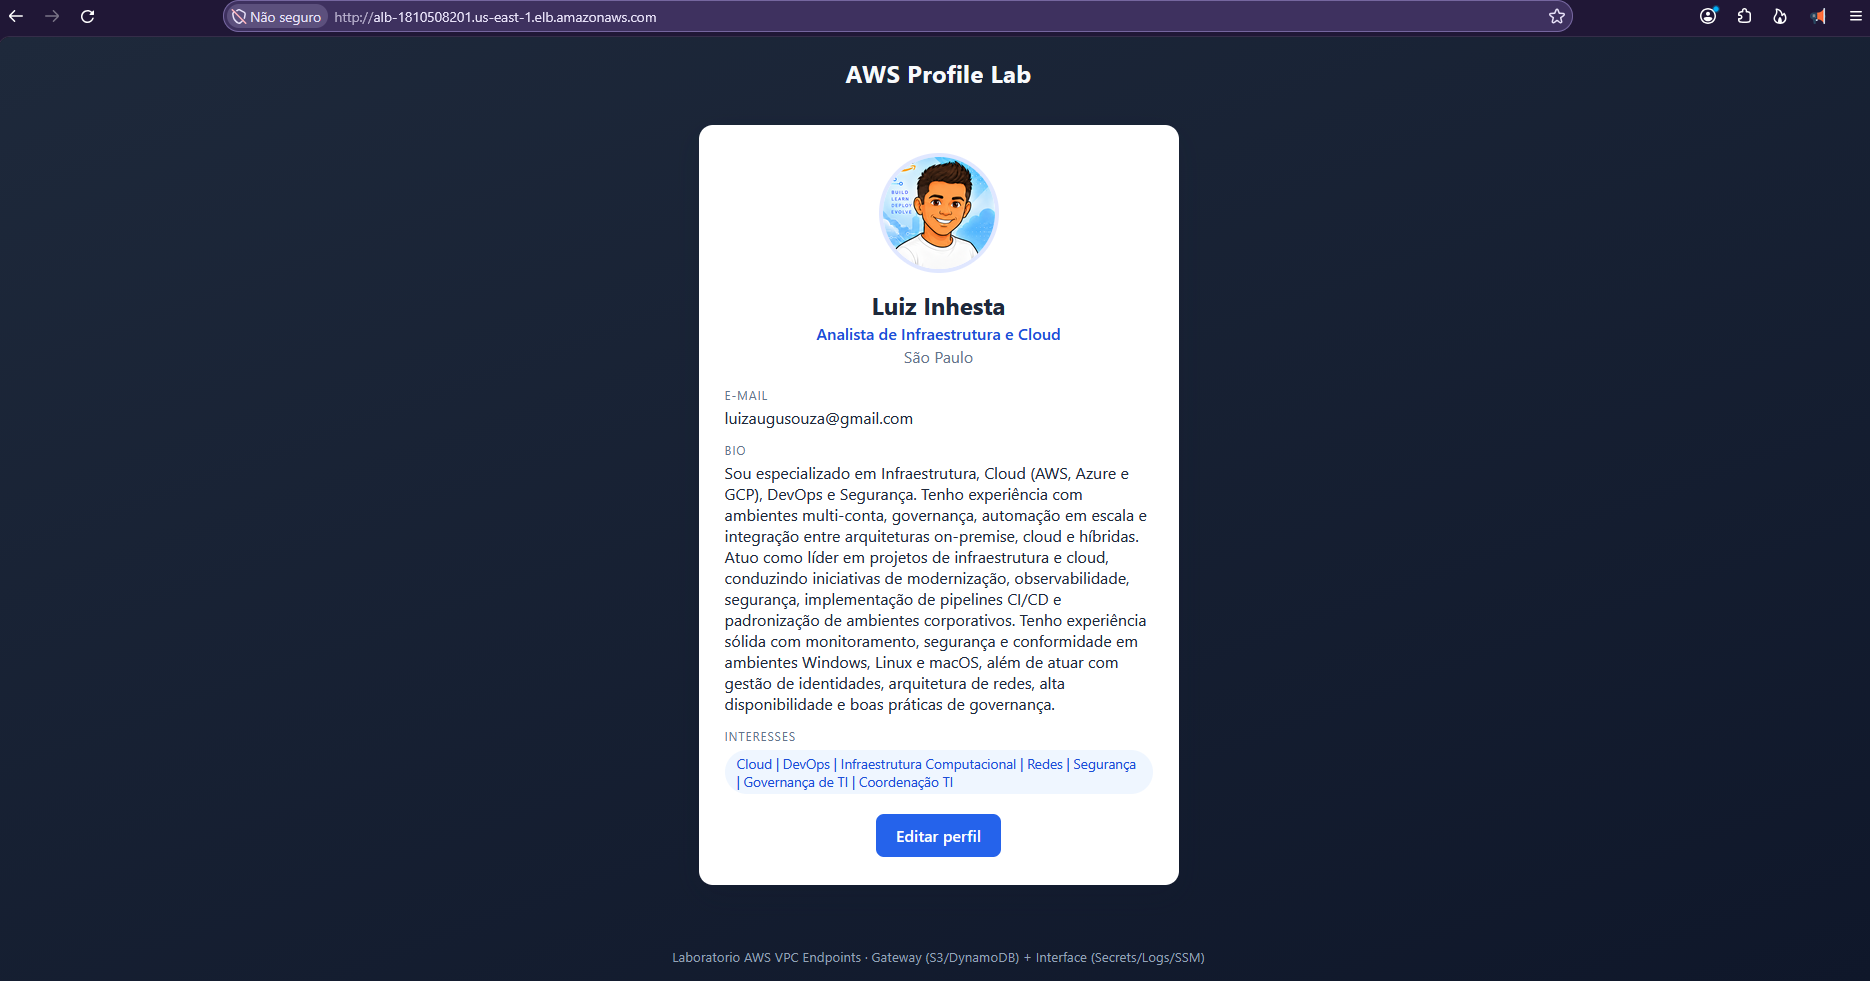
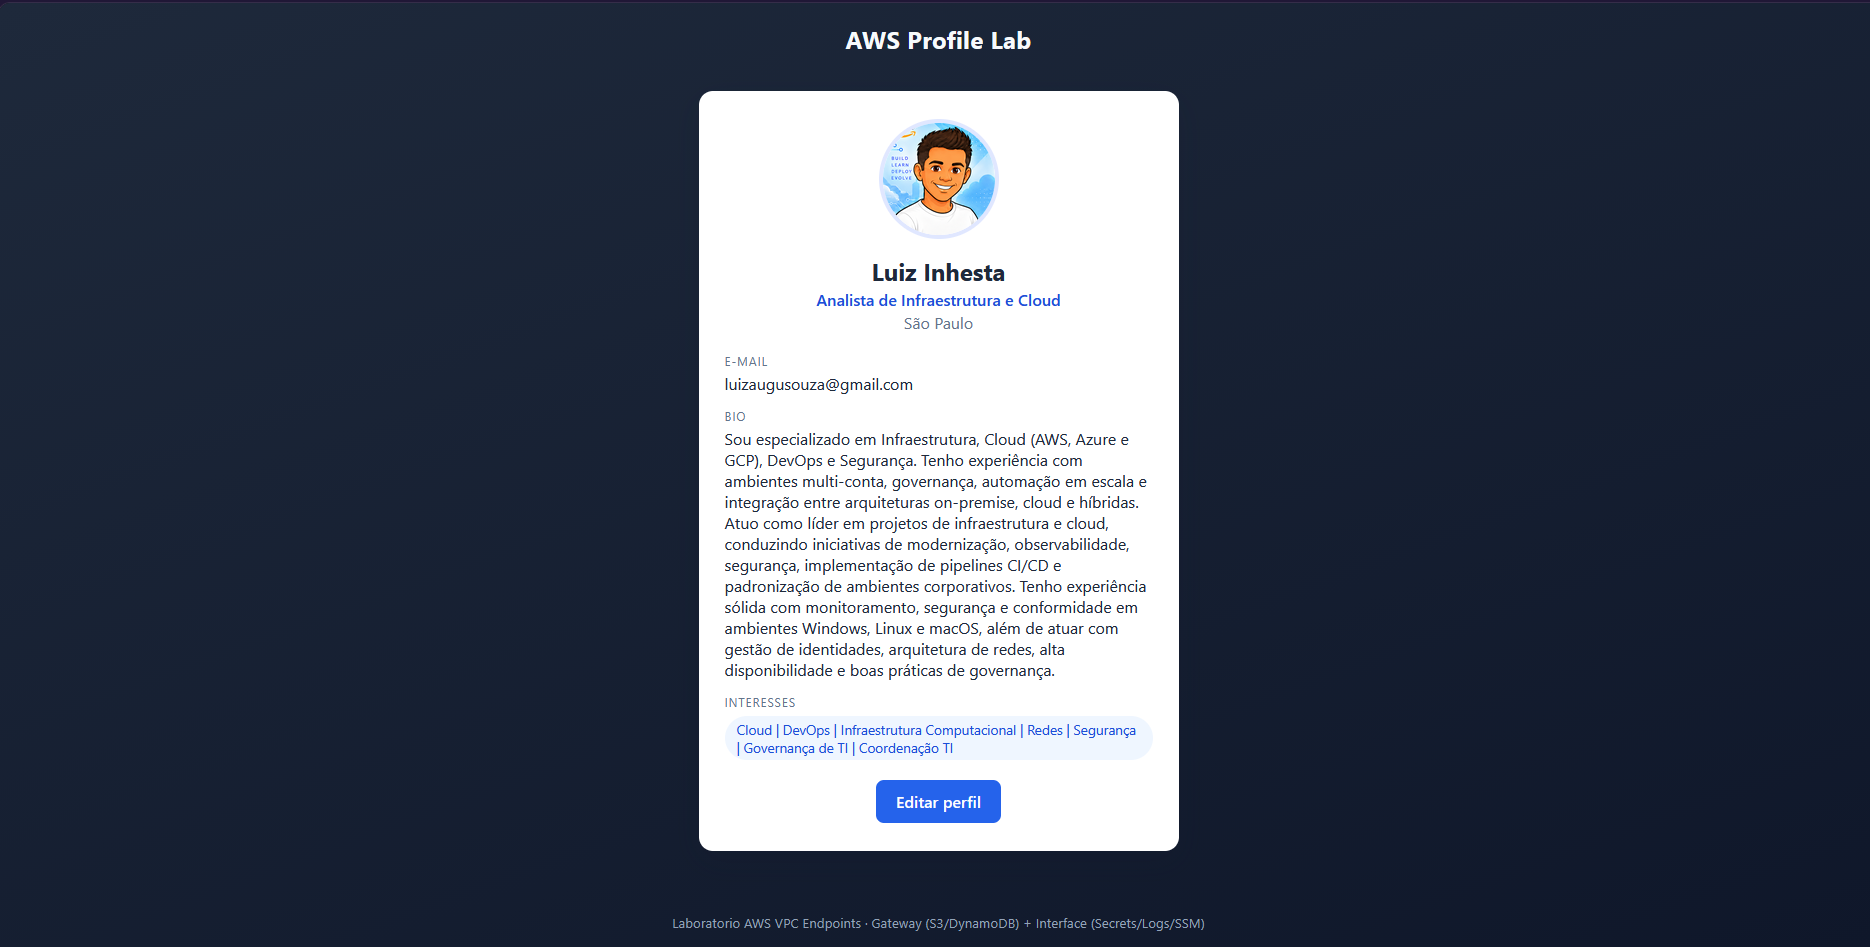
Atualização

diff --git a/ARQUITETURA.md b/ARQUITETURA.md
@@ -1,4 +1,4 @@
-# Arquitetura do Laboratório — `ARQUITETURA.md`
+# Arquitetura do Laboratório - VPC Endpoints: Acesso privado a serviços AWS sem passar pela internet
 
 Este documento descreve **exclusivamente a arquitetura que já existe** no laboratório **AWS VPC Endpoints**, na região **`us-east-1`**. Nenhum componente aqui descrito é hipotético: todos correspondem aos recursos criados manualmente no Console AWS (ver [`IMPLANTACAO.md`](./IMPLANTACAO.md)) e ao código da aplicação (`app/`).
 
@@ -11,6 +11,8 @@ Este documento descreve **exclusivamente a arquitetura que já existe** no labor
 Demonstrar, na prática, a **diferença entre Gateway VPC Endpoints e Interface VPC Endpoints**, usando uma aplicação Flask simples (cartão de perfil) hospedada em uma **única EC2 privada**, exposta à internet apenas por um **Application Load Balancer (ALB) público**.
 
 O ponto central do laboratório é o experimento da Etapa 19 do `IMPLANTACAO.md`: ao remover a rota `0.0.0.0/0 -> NAT-LAB` da route table privada, a aplicação **continua funcionando** por meio dos VPC Endpoints (S3, DynamoDB, Secrets Manager, CloudWatch Logs e SSM/Session Manager), enquanto a saída geral para a internet deixa de existir.
+
+![Descrição da imagem](<imagens/imagem%20(2).png>)
 
 Características de escopo:
 
@@ -63,6 +65,8 @@ flowchart TB
 | Log group CloudWatch | `/aws-vpc-endpoints-lab/app` (stream `app-events`) | Eventos de domínio da aplicação |
 | Gateway Endpoints | `VPCE-S3`, `VPCE-DYNAMODB` | Acesso a S3 e DynamoDB por rota (prefix list) |
 | Interface Endpoints | `VPCE-SECRETSMANAGER`, `VPCE-LOGS`, `VPCE-SSM`, `VPCE-SSMMESSAGES`, `VPCE-EC2MESSAGES` | Acesso via ENI/PrivateLink na porta 443 |
+
+![Descrição da imagem](<imagens/imagem%20(29).png>)
 
 ### VPC e subnets
 

diff --git a/IMPLANTACAO.md b/IMPLANTACAO.md
@@ -1,4 +1,4 @@
-# Guia de Implantação Manual no Console AWS — `IMPLANTACAO.md`
+# Guia de Implantação Manual - VPC Endpoints: Acesso privado a serviços AWS sem passar pela internet
 
 Passo a passo **manual** para montar toda a infraestrutura do laboratório **AWS VPC Endpoints** no **Console AWS**, na região **`us-east-1`**. A aplicação roda em uma **única EC2 privada** (sem alta disponibilidade). A única exceção à "AZ única" é a **segunda subnet pública**, criada apenas porque o Application Load Balancer (ALB) exige subnets em **duas Availability Zones distintas** — ela não hospeda recursos de aplicação.
 
